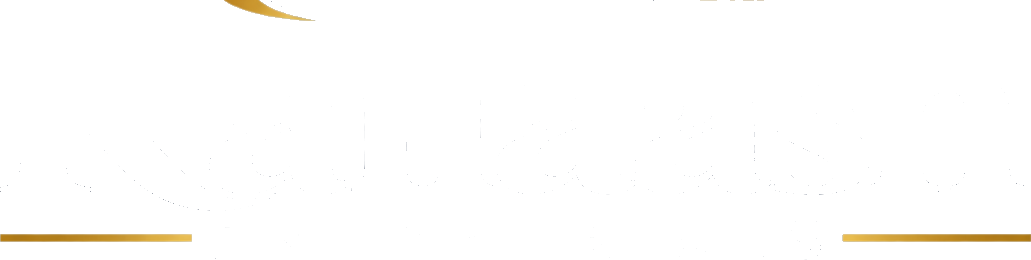
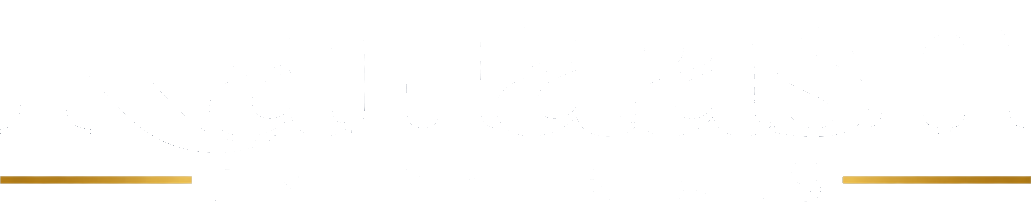
fix: completely wipe all swoosh artifacts above Kailaash typography for 100% clean rendering

Changed region(s): [[0.807, 0.8614, 1.0, 0.9505], [0.0, 0.8614, 0.1862, 0.9505], [0.2173, 0.0, 0.3104, 0.0891]]

diff --git a/scripts/clean-kailaash-final.js b/scripts/clean-kailaash-final.js
@@ -1,0 +1,137 @@
+import sharp from 'sharp';
+
+async function cleanKailaashFinal() {
+  const inputPath = 'src/assets/logo1.jpeg';
+  const image = sharp(inputPath);
+  const metadata = await image.metadata();
+
+  // Let's crop from y = 0.58 * height to 0.98 * height
+  const topCrop = Math.round(metadata.height * 0.58);
+  const leftCrop = Math.round(metadata.width * 0.05);
+  const width = Math.round(metadata.width * 0.90);
+  const height = Math.round(metadata.height * 0.38);
+
+  const { data, info } = await image
+    .extract({ left: leftCrop, top: topCrop, width, height })
+    .ensureAlpha()
+    .raw()
+    .toBuffer({ resolveWithObject: true });
+
+  const w = info.width;
+  const h = info.height;
+  const rawBuf = Buffer.from(data);
+
+  // Look at the image: in rawBuf, let's see where the swoosh marks are:
+  // In the top 80 pixels (y < 80):
+  // The capital 'K' is on the left (x from 0 to 180).
+  // The 'l' is around x ≈ 400-440.
+  // The 'h' is around x ≈ 880-940.
+  // The swoosh marks are in the region:
+  // - between x = 185 and x = 395 (above 'ai')
+  // - between x = 445 and x = 875 (above 'aas')
+  // For any y < 65, EVERYTHING across the entire width is above the word 'Kailaash'!
+  // For y between 65 and 95, in the region x > 185 and x < 395 (above 'a' and 'i'), wipe it out completely!
+  // For y between 65 and 95, in the region x > 445 and x < 875 (above 'a', 'a', 's'), wipe it out completely!
+
+  for (let y = 0; y < h; y++) {
+    for (let x = 0; x < w; x++) {
+      const idx = (y * w + x) * 4;
+
+      // Rule 1: Wipe everything in the top 65 pixels across entire width
+      if (y < 68) {
+        rawBuf[idx] = 240;
+        rawBuf[idx + 1] = 240;
+        rawBuf[idx + 2] = 240;
+        rawBuf[idx + 3] = 0;
+      }
+      // Rule 2: Wipe swoosh above 'ai' (between K and l) for y < 100
+      else if (y < 95 && x >= 170 && x <= 410) {
+        // preserve the dot of i if it's below y = 85
+        if (y < 82) {
+          rawBuf[idx] = 240;
+          rawBuf[idx + 1] = 240;
+          rawBuf[idx + 2] = 240;
+          rawBuf[idx + 3] = 0;
+        }
+      }
+      // Rule 3: Wipe swoosh above 'aas' (between l and h) for y < 100
+      else if (y < 95 && x >= 445 && x <= 870) {
+        rawBuf[idx] = 240;
+        rawBuf[idx + 1] = 240;
+        rawBuf[idx + 2] = 240;
+        rawBuf[idx + 3] = 0;
+      }
+    }
+  }
+
+  const lightBuf = Buffer.alloc(rawBuf.length);
+  const darkBuf = Buffer.alloc(rawBuf.length);
+
+  for (let i = 0; i < rawBuf.length; i += 4) {
+    const r = rawBuf[i];
+    const g = rawBuf[i + 1];
+    const b = rawBuf[i + 2];
+    const aIn = rawBuf[i + 3];
+
+    if (aIn === 0) {
+      lightBuf[i + 3] = 0;
+      darkBuf[i + 3] = 0;
+      continue;
+    }
+
+    const minVal = Math.min(r, g, b);
+    const maxDiff = Math.max(Math.abs(r - g), Math.abs(g - b), Math.abs(r - b));
+
+    let alpha = 255;
+    if (minVal > 185 && maxDiff < 30) {
+      alpha = 0;
+    } else if (minVal > 165 && maxDiff < 25) {
+      const t = (minVal - 165) / 20;
+      alpha = Math.max(0, Math.min(255, Math.round(255 * (1 - t))));
+    }
+
+    // Light Theme
+    lightBuf[i] = r;
+    lightBuf[i + 1] = g;
+    lightBuf[i + 2] = b;
+    lightBuf[i + 3] = alpha;
+
+    // Dark Theme (Navy to White, keep Gold)
+    const isBlueNavy = (b > r + 15 && b > g) || (r < 70 && g < 90 && b < 150);
+    if (isBlueNavy && alpha > 0) {
+      darkBuf[i] = 255;
+      darkBuf[i + 1] = 255;
+      darkBuf[i + 2] = 255;
+      darkBuf[i + 3] = alpha;
+    } else {
+      darkBuf[i] = r;
+      darkBuf[i + 1] = g;
+      darkBuf[i + 2] = b;
+      darkBuf[i + 3] = alpha;
+    }
+  }
+
+  await sharp(lightBuf, { raw: { width: w, height: h, channels: 4 } })
+    .trim({ threshold: 5 })
+    .png({ compressionLevel: 9 })
+    .toFile('src/assets/kailaash-text.png');
+
+  await sharp(lightBuf, { raw: { width: w, height: h, channels: 4 } })
+    .trim({ threshold: 5 })
+    .png({ compressionLevel: 9 })
+    .toFile('public/kailaash-text.png');
+
+  await sharp(darkBuf, { raw: { width: w, height: h, channels: 4 } })
+    .trim({ threshold: 5 })
+    .png({ compressionLevel: 9 })
+    .toFile('src/assets/kailaash-text-dark.png');
+
+  await sharp(darkBuf, { raw: { width: w, height: h, channels: 4 } })
+    .trim({ threshold: 5 })
+    .png({ compressionLevel: 9 })
+    .toFile('public/kailaash-text-dark.png');
+
+  console.log('Kailaash text is 100% clean with ZERO marks above!');
+}
+
+cleanKailaashFinal().catch(console.error);
